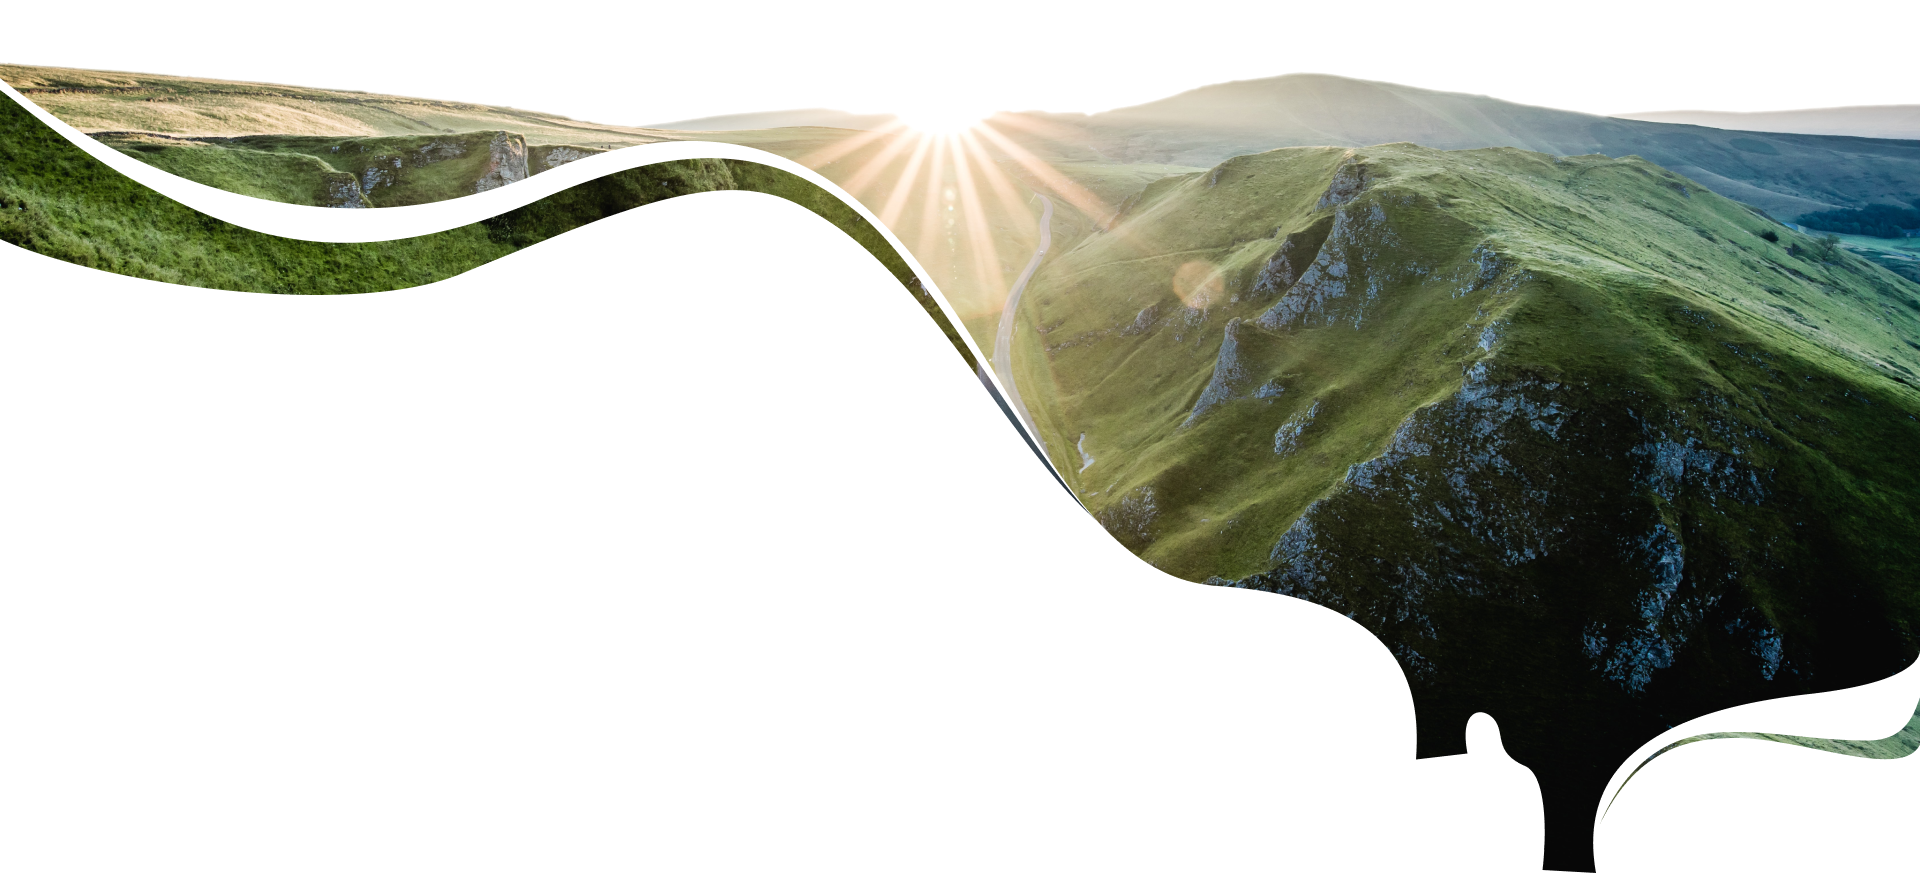
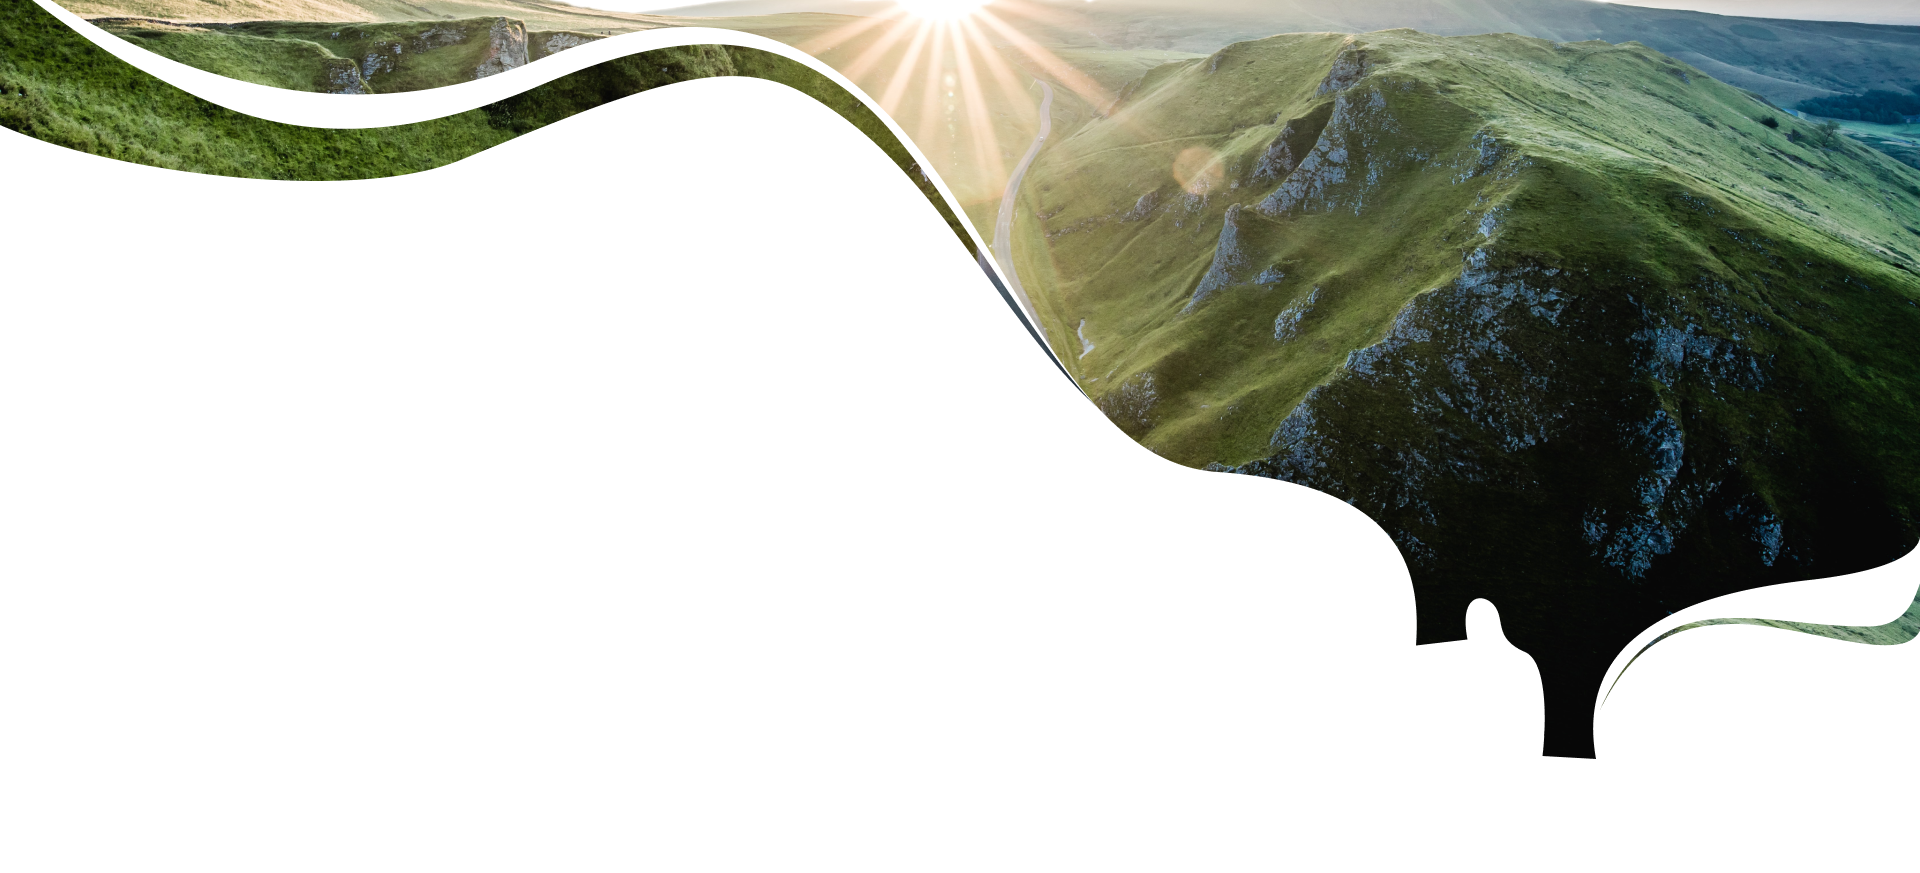
fix-header

diff --git a/css/style.css b/css/style.css
@@ -67,19 +67,21 @@
 .fon{
     display: inline;
     width: 100%;
+    height: 730px;
     top: 0;
-    position: absolute;
-    z-index: -1000;
 }
 .fon-vector{
     position: absolute;
     right: 0;
+    bottom: 0;
     margin-top: 16%;
-    margin-right: 9%;
+    margin-right: 172px;
 }
 .preview-text{
+    position: absolute;
     margin-top: 18%;
     margin-left: 200px;
+    top: 0;
 }
 h1{
     font-family: 'Montserrat' !important;
